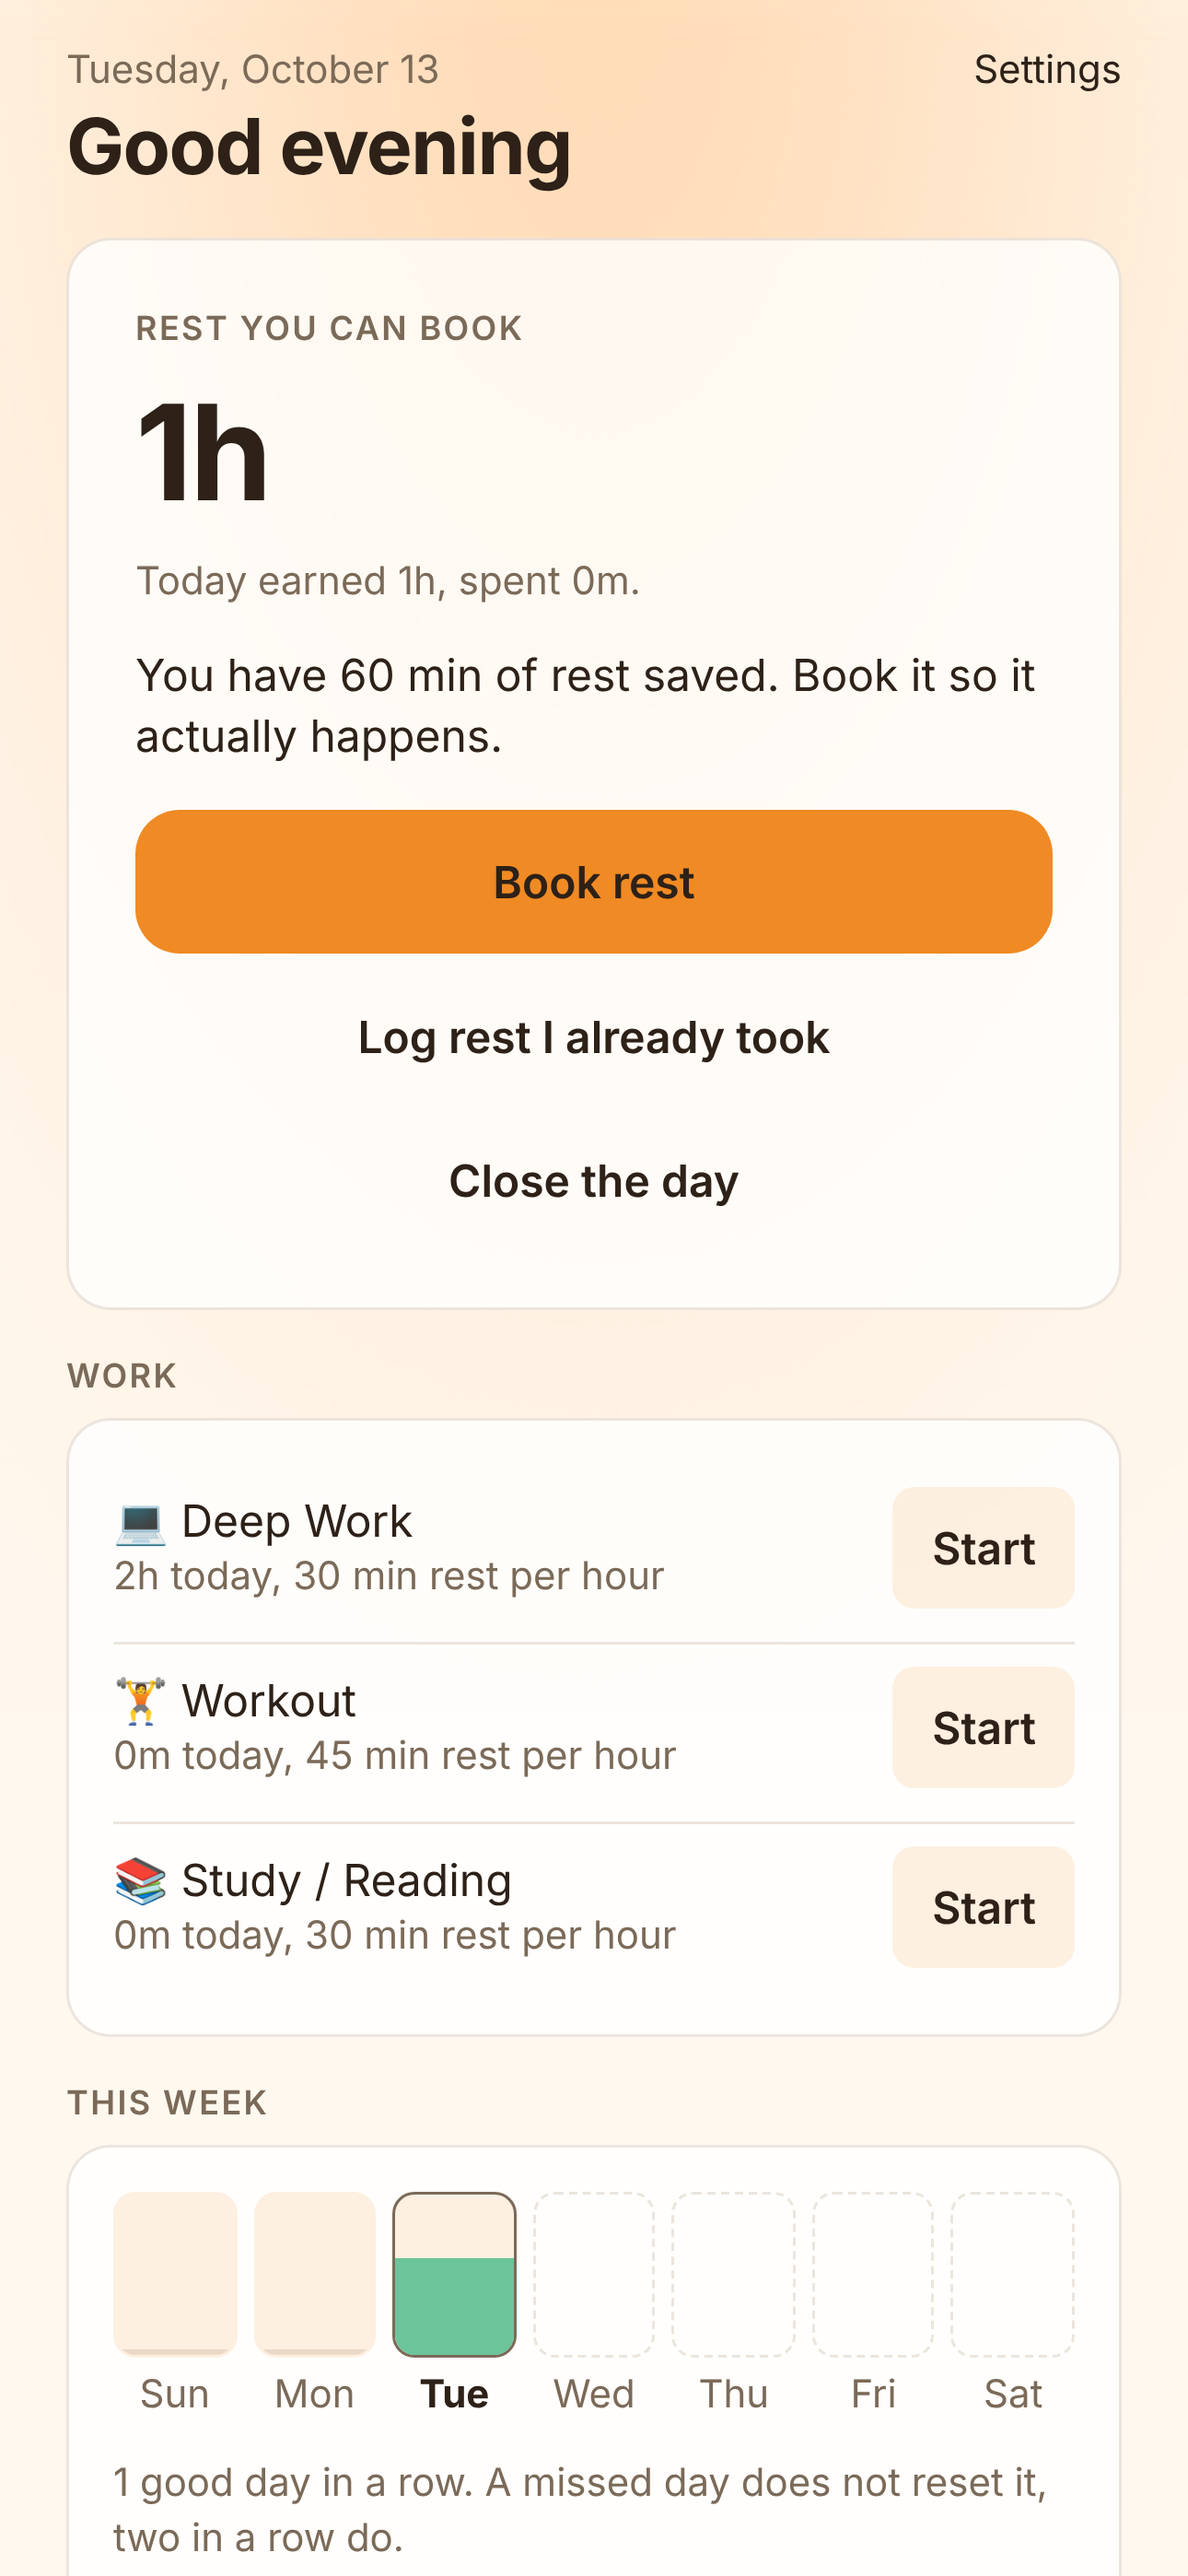
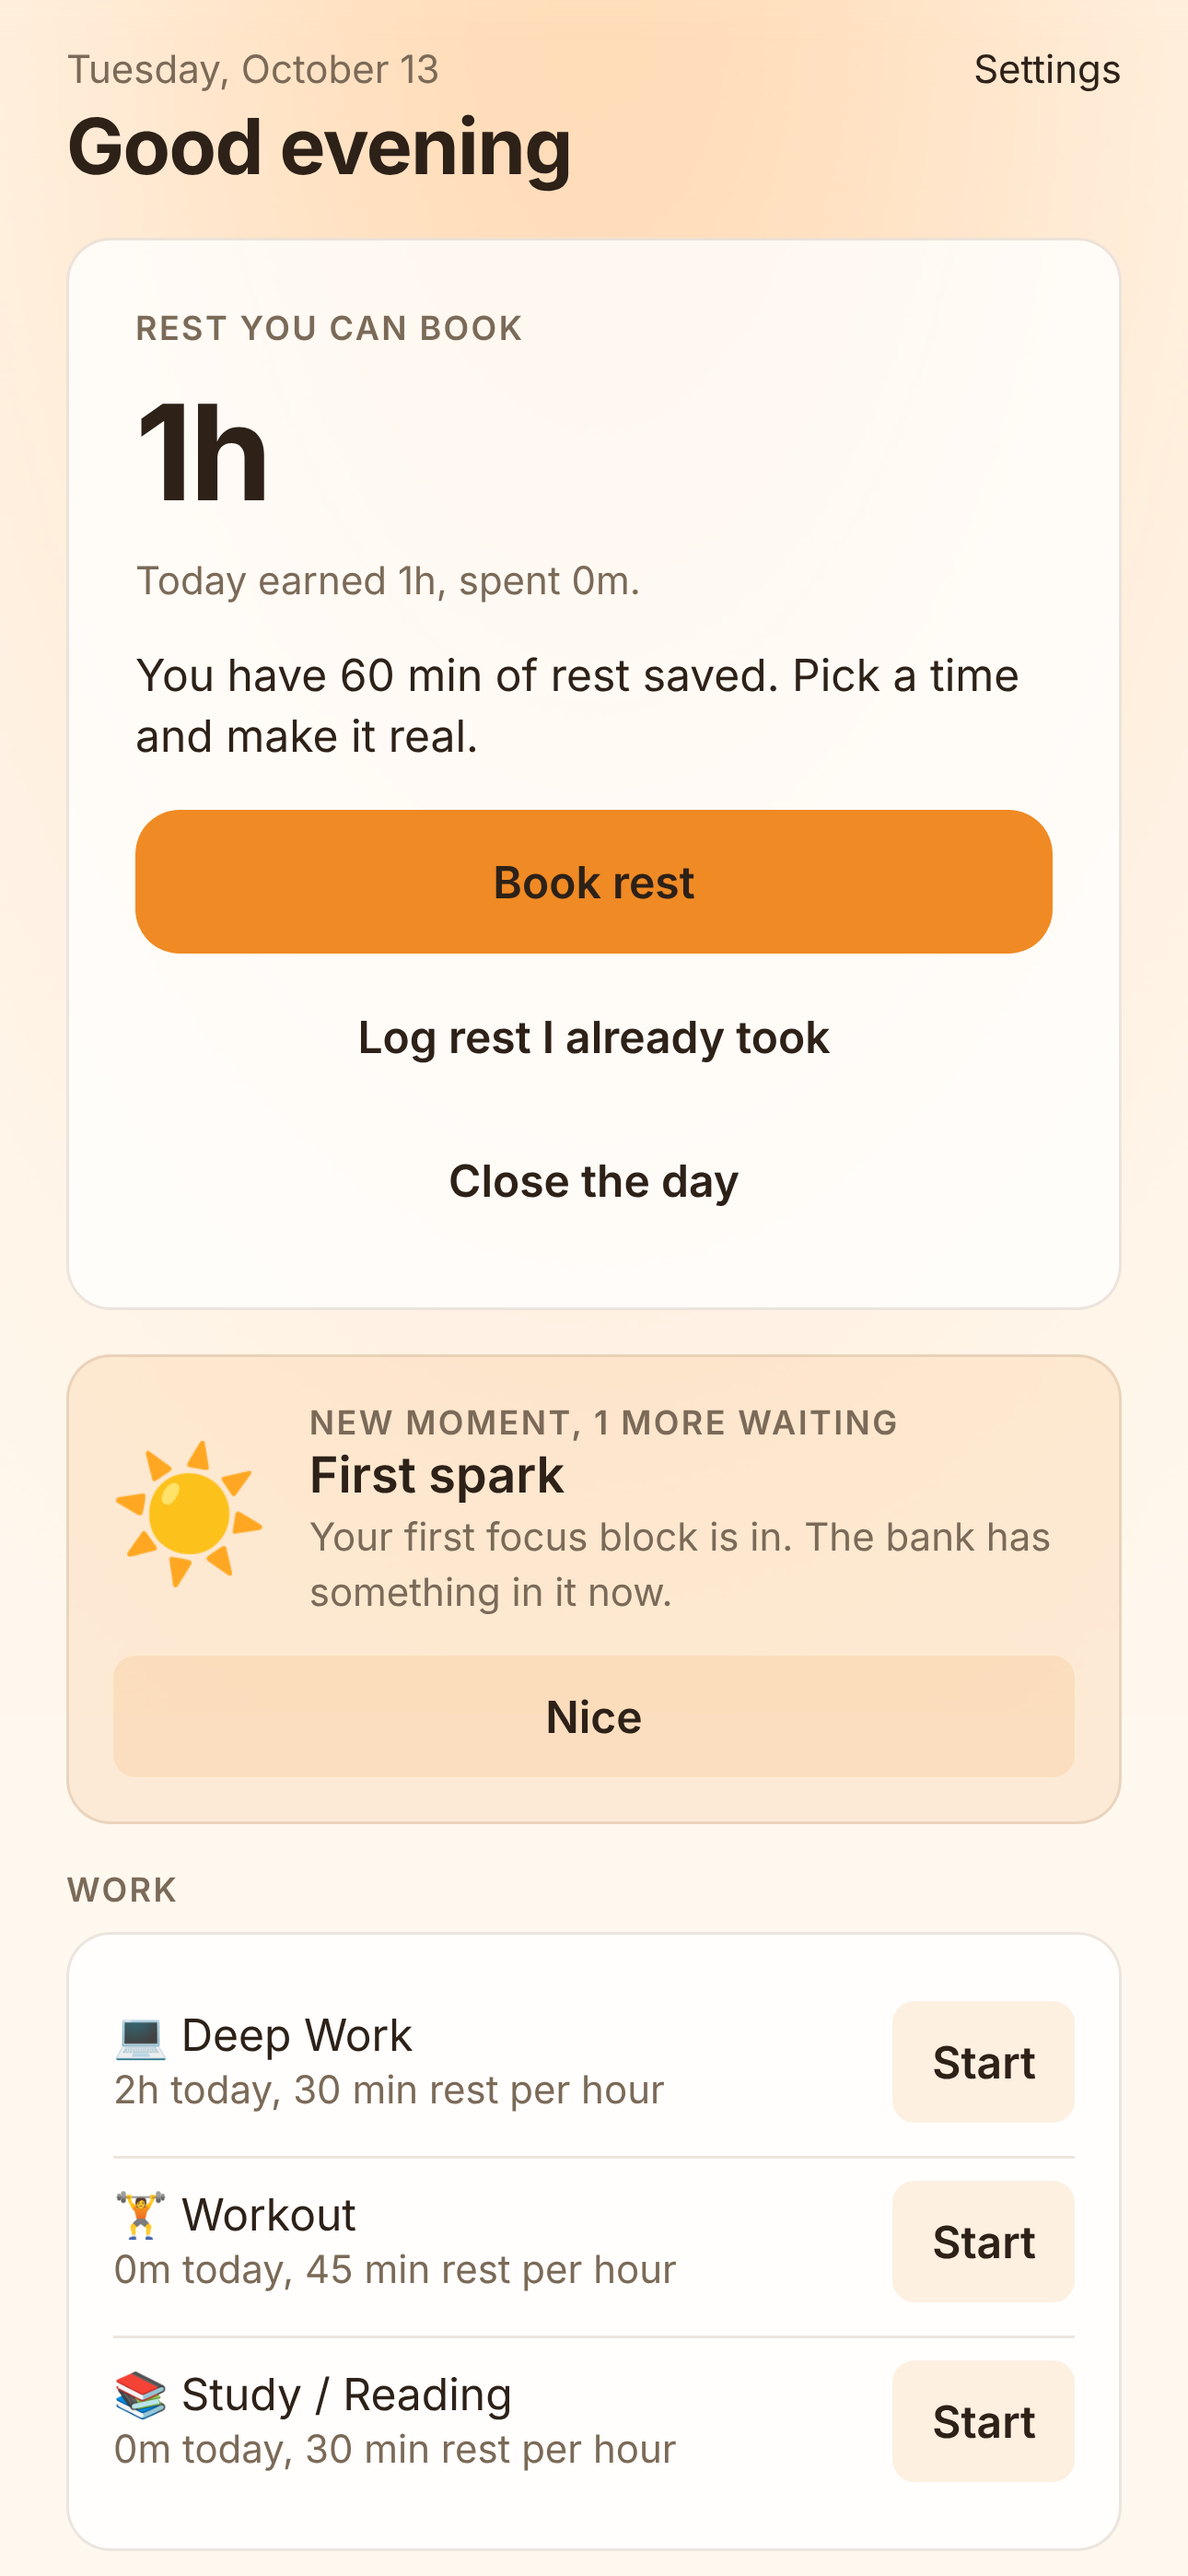
A friendlier voice, a buzz when rest is booked
Today's one-line hints, the borrowed-rest wording, the bank and wind-down
reminders and the closing line of the day now sound like a friend rather than a
planner. Booking rest gives the same success buzz as the other rewards. Moment
emoji in History keep their color (only the blanks are tinted). Store
screenshots regenerated.

Claude-Session: https://claude.ai/code/session_019ffQuZEKGA3GPgQN2MLQP2

diff --git a/src/core/summary.ts b/src/core/summary.ts
@@ -51,18 +51,18 @@ export function todayHint(data: UserData, now: Date): { kind: HintKind; text: st
   const active = worked || (log?.glowLogs.length ?? 0) > 0;
 
   if (avail < 0) {
-    return { kind: 'debt', text: `You borrowed ${-avail} min of rest ahead. Your next focus block pays it back.` };
+    return { kind: 'debt', text: `You are ${-avail} min ahead on rest. Fine by me. The next focus block squares it up.` };
   }
   if (avail >= data.profile.defaultSlotMins && !nextOpenSlot(data)) {
-    return { kind: 'book', text: `You have ${avail} min of rest saved. Book it so it actually happens.` };
+    return { kind: 'book', text: `You have ${avail} min of rest saved. Pick a time and make it real.` };
   }
   // Only ask to close a day that had something in it.
   if (!closed && afterWork && active) {
-    return { kind: 'close', text: 'The workday is over. Close it when you are ready.' };
+    return { kind: 'close', text: 'The workday is over. Close it with a tick when you are ready.' };
   }
-  if (closed) return { kind: 'closed', text: 'Day closed. Rest well.' };
+  if (closed) return { kind: 'closed', text: 'Day closed. Go enjoy your evening.' };
   if (!worked && !isRestDay(data, now)) {
     return { kind: 'start', text: 'Start with one focus block. The rest follows.' };
   }
-  return { kind: 'idle', text: 'You are on track.' };
+  return { kind: 'idle', text: 'Looking good. Keep your pace.' };
 }

diff --git a/src/app/book.tsx b/src/app/book.tsx
@@ -11,7 +11,7 @@ import { Button } from '@/ui/Button';
 import { Card } from '@/ui/Card';
 import { Chip, Row, Stepper } from '@/ui/controls';
 import { dayWord, fmtClock, fmtMins } from '@/ui/format';
-import { tap } from '@/ui/haptics';
+import { success, tap } from '@/ui/haptics';
 import { ModalHeader } from '@/ui/ModalHeader';
 import { Screen } from '@/ui/Screen';
 import { AppText } from '@/ui/Text';
@@ -66,6 +66,7 @@ export default function BookRest() {
       setBusy(false);
       return;
     }
+    success();
     if (r.startedNow) router.replace({ pathname: '/slot/[id]', params: { id: r.slot.id } });
     else router.back();
   }
@@ -193,7 +194,7 @@ export default function BookRest() {
         </View>
         {left < 0 && preview.ok ? (
           <AppText variant="small" color={colors.grindText}>
-            You would borrow {fmtMins(-left)} ahead. Work pays it back.
+            You would be {fmtMins(-left)} ahead on rest. The next focus block squares it up.
           </AppText>
         ) : null}
       </Card>

diff --git a/src/services/notifications.ts b/src/services/notifications.ts
@@ -149,7 +149,7 @@ export async function syncRoutineReminders(profile: Profile): Promise<void> {
         identifier: ID_WIND_DOWN,
         content: {
           title: 'Wind down',
-          body: `Bedtime is ${formatHM(parseHM(profile.bedtime))}. Start slowing the evening.`,
+          body: `Bedtime is at ${formatHM(parseHM(profile.bedtime))}. Slow down and let the day go.`,
         },
         trigger: { type: Notifications.SchedulableTriggerInputTypes.DAILY, ...t, channelId: CHANNEL },
       });
@@ -174,7 +174,7 @@ export async function syncBankNudge(data: UserData): Promise<void> {
     await scheduleAt(
       ID_BANK,
       'Rest is waiting',
-      `You have ${Math.floor(pile)} min of rest saved. Book a slot so it actually happens.`,
+      `${Math.floor(pile)} min of rest are waiting for you. Pick a time and enjoy them.`,
       at,
     );
   } catch {

diff --git a/src/app/history.tsx b/src/app/history.tsx
@@ -50,7 +50,7 @@ export default function History() {
               accessible
               accessibilityLabel={m.earned ? `${m.title}. ${m.line}` : 'Not yet'}
             >
-              <AppText variant="display" color={colors.border} style={styles.momentEmoji}>
+              <AppText variant="display" color={m.earned ? undefined : colors.border} style={styles.momentEmoji}>
                 {m.earned ? m.emoji : '·'}
               </AppText>
               <AppText variant="small" numberOfLines={2} style={styles.momentTitle}>

diff --git a/src/app/close-day.tsx b/src/app/close-day.tsx
@@ -27,7 +27,7 @@ export default function CloseDay() {
       <Screen padTop={false} footer={<Button title="Done" onPress={() => router.back()} />}>
         <ModalHeader title="Day closed" onClose={() => router.back()} />
         <Card>
-          <AppText variant="body">Nothing else to carry tonight.</AppText>
+          <AppText variant="body">Nothing left to carry tonight. 🌙</AppText>
           {note.trim() ? (
             <AppText variant="small">Tomorrow you start with: {note.trim()}</AppText>
           ) : null}

diff --git a/src/app/how-it-works.tsx b/src/app/how-it-works.tsx
@@ -18,7 +18,7 @@ const STEPS = [
   },
   {
     title: 'You can borrow a little',
-    body: 'Low on rest but need a break? You may borrow a small amount ahead. Your next focus block pays it back. The limit is in Settings.',
+    body: 'Low on rest but need a break? You may borrow a small amount ahead. The next focus block squares it up. The limit is in Settings.',
   },
   {
     title: 'Rest days are lighter',
